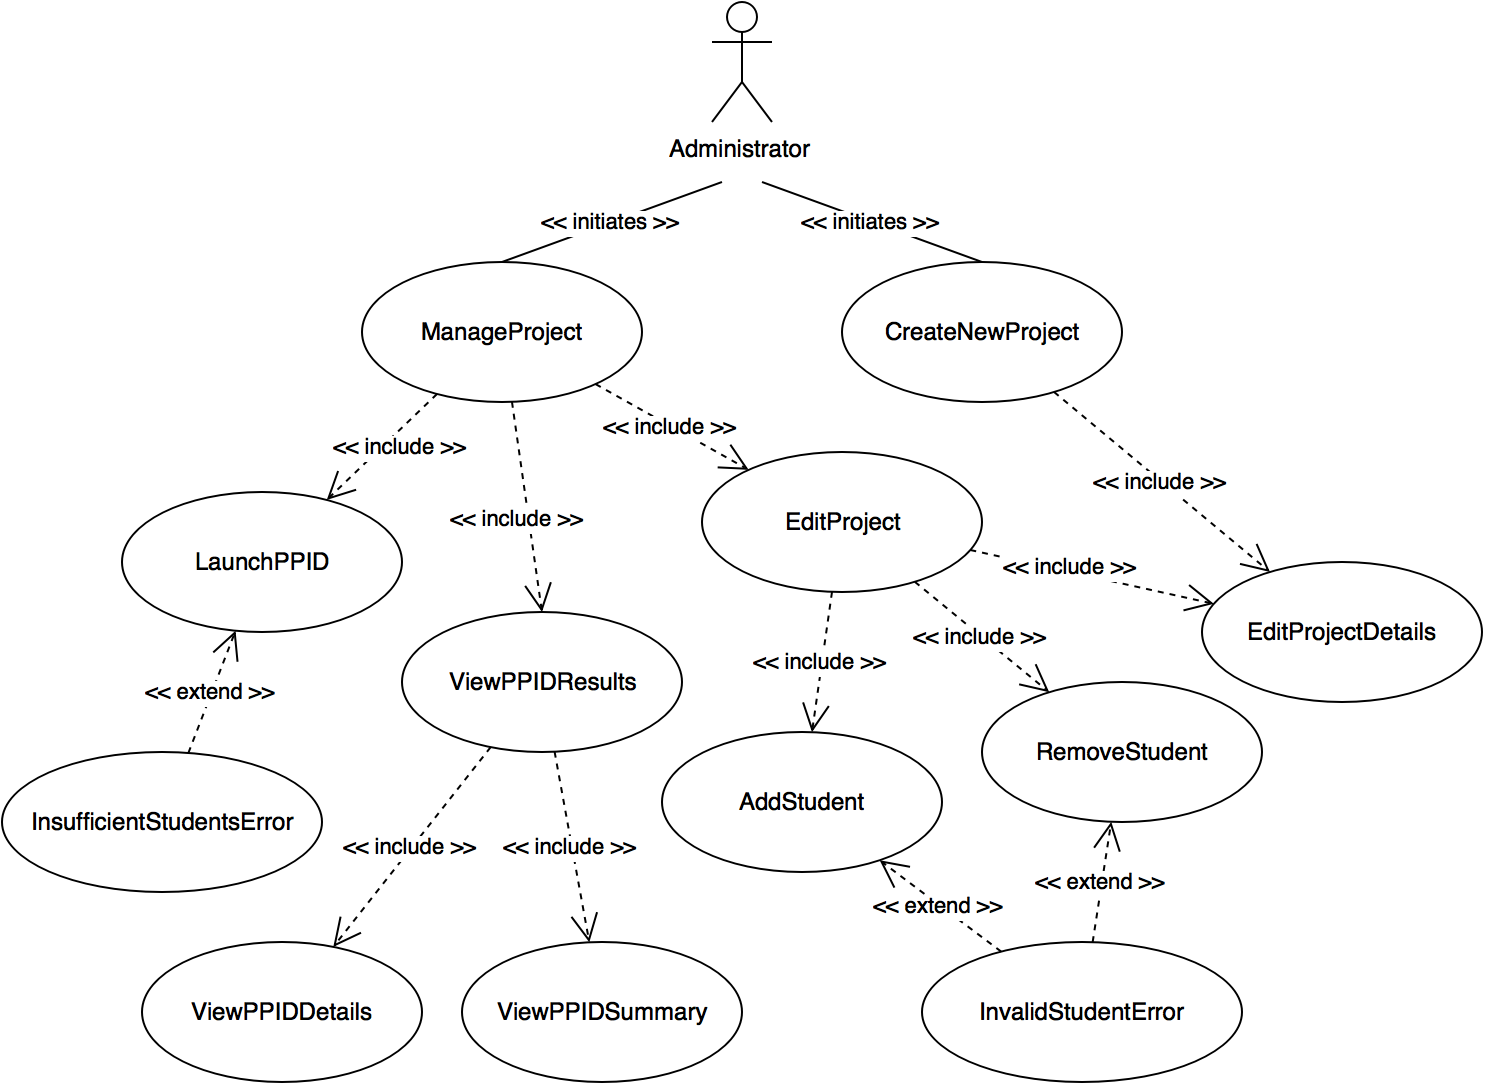
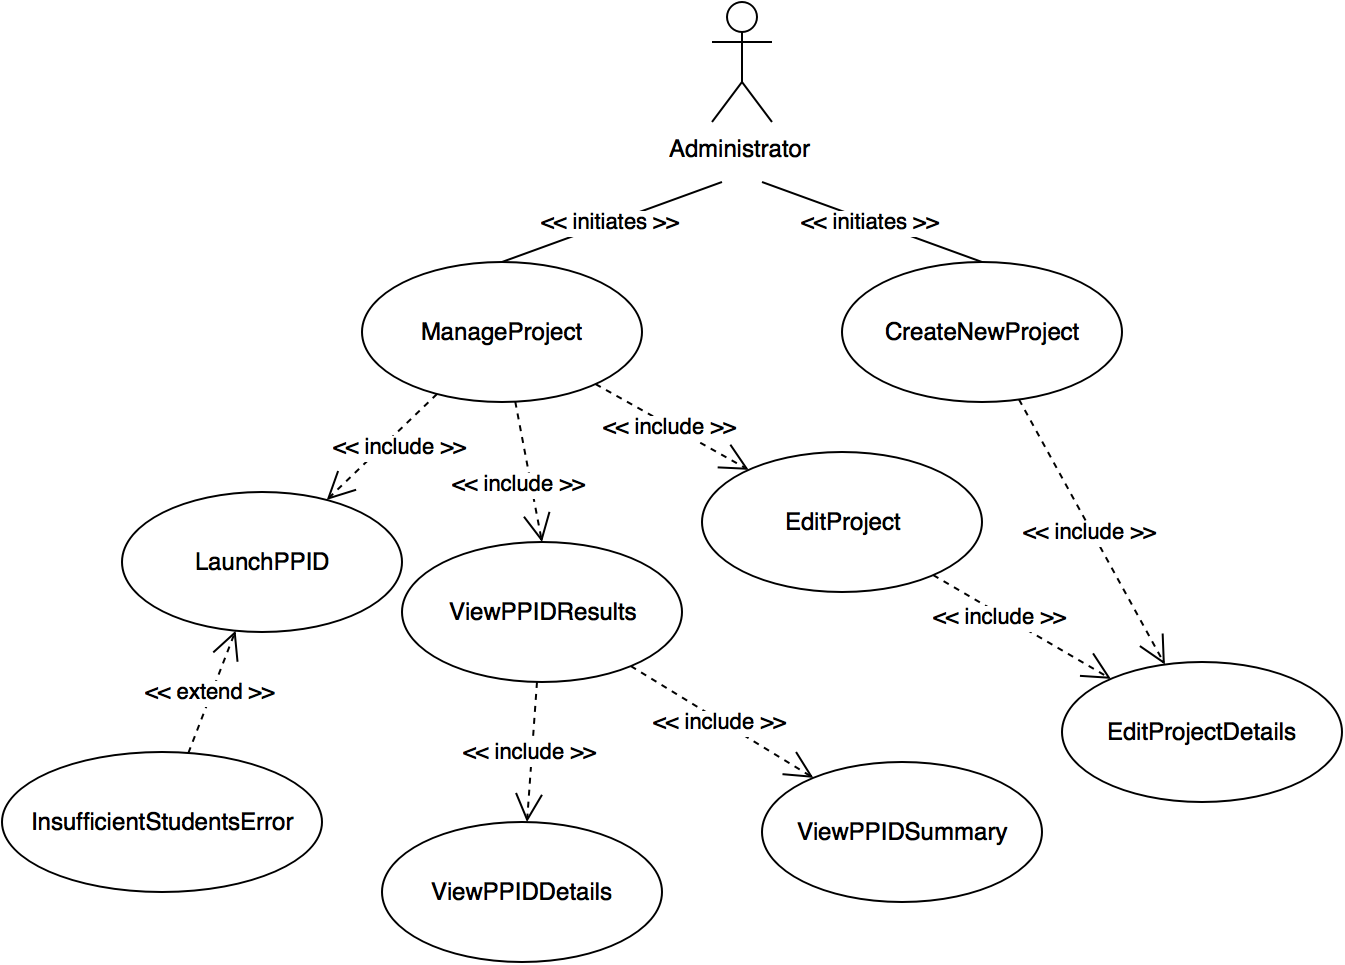
Use case tweaks

diff --git a/docs/main.tex b/docs/main.tex
@@ -49,9 +49,6 @@
 \newusecase{viewppiddetails}
 \newusecase{editprojectdetails}
 \newusecase{editproject}
-\newusecase{addstudent}
-\newusecase{removestudent}
-\newusecase{invalidstudenterror}
 %%% END DETAILED USE CASES - ADMINISTRATOR
 
 %%% DETAILED USE CASES - STUDENT
@@ -387,10 +384,6 @@ tool that allows us to very clearly see what each use case does.
 		\viewppiddetails{} & ViewPPIDDetails & The Administrator views a detailed analysis of the grouping decisions.\\
 		\editprojectdetails{} & EditProjectDetails & The Administrator modifies the parameters of a specified Project.\\
 		\editproject{} & EditProject & The Administrator modifies an aspect of the Project (includes Student participation and Project parameters).\\
-		\addstudent{} & AddStudent & The Administrator adds a Student to the current Project.\\
-		\removestudent{} & RemoveStudent & The Administrator removes a Student from the current Project.\\
-		\invalidstudenterror{} & InvalidStudentError & The system reports that an invalid Student, be it no Student or a non-existent Student, 
-		was selected to carry out an operation.\\
 	\end{tabu}
 \end{table}
 
@@ -840,116 +833,6 @@ Please also note that we have decided to not include any error cases in this par
 		Quality Requirements & \\
 
 		Traceability & F-06 \\
-		\toprule
-	\end{tabu}
-\end{center}
-
-\begin{center}
-	\begin{tabu} to \textwidth {>{\it}l X}
-		\toprule
-		Use Case Identifier & \addstudent{} \\
-		Name & {\bf AddStudent} \\
-		Participating Actors & Initiated by Administrator \\
-		Flow of Events & 
-		\begin{minipage}[t]{\linewidth}
-		    \begin{enumerate}
-			    \item[1.] The Administrator selects a Student from a list of available Students.
-			    \begin{enumerate}
-			    	    \item[2.] The system adds the selected Student to the list of Students in the selected Project.
-			    \end{enumerate}
-			\end{enumerate}
-		\end{minipage} \\
-
-		Entry Conditions &
-		\begin{minipage}[t]{\linewidth}
-			\begin{itemize}
-			    \item The User is operating cuPID as an Administrator.
-			    \item The Administrator has chosen to add a Student to a Project.
-	        \end{itemize}
-		\end{minipage} \\
-
-		Exit Conditions &
-		\begin{minipage}[t]{\linewidth}
-			\begin{itemize}
-			    \item The addition of the Student to a Project has been saved.
-	        \end{itemize}
-		\end{minipage} \\
-
-		Quality Requirements & \\
-
-		Traceability & F-06-02 \\
-		\toprule
-	\end{tabu}
-\end{center}
-
-\begin{center}
-	\begin{tabu} to \textwidth {>{\it}l X}
-		\toprule
-		Use Case Identifier & \removestudent{} \\
-		Name & {\bf RemoveStudent} \\
-		Participating Actors & Initiated by Administrator \\
-		Flow of Events & 
-		\begin{minipage}[t]{\linewidth}
-		    \begin{enumerate}
-			    \item[1.] The Administrator selects a Student from the list of Students that are enrolled in the Project.
-			    \begin{enumerate} 
-			    	\item[2.] The system removes the Student from the list of Students in the selected Project.
-			    \end{enumerate}
-			\end{enumerate}
-		\end{minipage} \\
-
-		Entry Conditions &
-		\begin{minipage}[t]{\linewidth}
-			\begin{itemize}
-			    \item The User is operating cuPID as an Administrator.
-			    \item The Administrator has chosen to remove a Student from a Project.
-	        \end{itemize}
-		\end{minipage} \\
-
-		Exit Conditions &
-		\begin{minipage}[t]{\linewidth}
-			\begin{itemize}
-			    \item The removal of the Student from the Project has been saved.
-	        \end{itemize}
-		\end{minipage} \\
-
-		Quality Requirements & \\
-
-		Traceability & F-06-03 \\
-		\toprule
-	\end{tabu}
-\end{center}
-
-\begin{center}
-	\begin{tabu} to \textwidth {>{\it}l X}
-		\toprule
-		Use Case Identifier & \invalidstudenterror{} \\
-		Name & {\bf InvalidStudentError} \\
-		Participating Actors & Administrator \\
-		Flow of Events & 
-		\begin{minipage}[t]{\linewidth}
-		    \begin{enumerate}
-			    \item The system informs the Administrator that the chosen student is invalid for the desired operation.
-			\end{enumerate}
-		\end{minipage} \\
-
-		Entry Conditions &
-		\begin{minipage}[t]{\linewidth}
-			\begin{itemize}
-			    \item The Administrator attempted to perform an operation without selecting a Student or with a Student that doesn't exist, add a Student to a Project in which the Student is already enrolled, or remove a Student from a Project in which the Student is not enrolled.
-	        \end{itemize}
-		\end{minipage} \\
-
-		Exit Conditions &
-		\begin{minipage}[t]{\linewidth}
-			\begin{itemize}
-			    \item The operation initiated by the Administrator is cancelled.
-	        \end{itemize}
-		\end{minipage} \\
-
-		Quality Requirements & \\
-
-		Traceability & NF-02 \\
 		\toprule
 	\end{tabu}
 \end{center}
